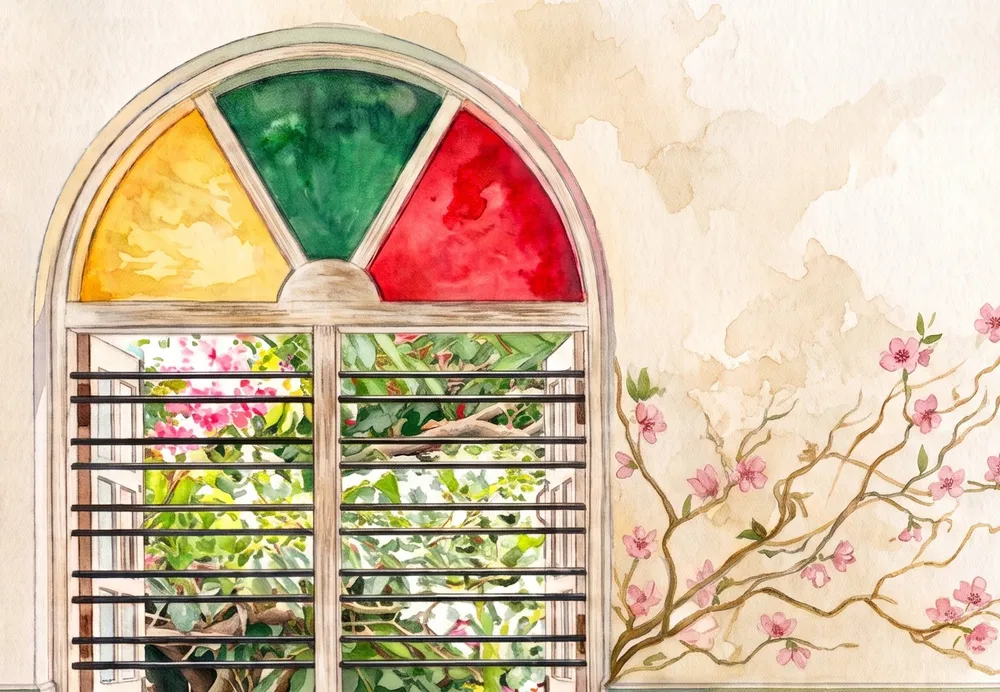
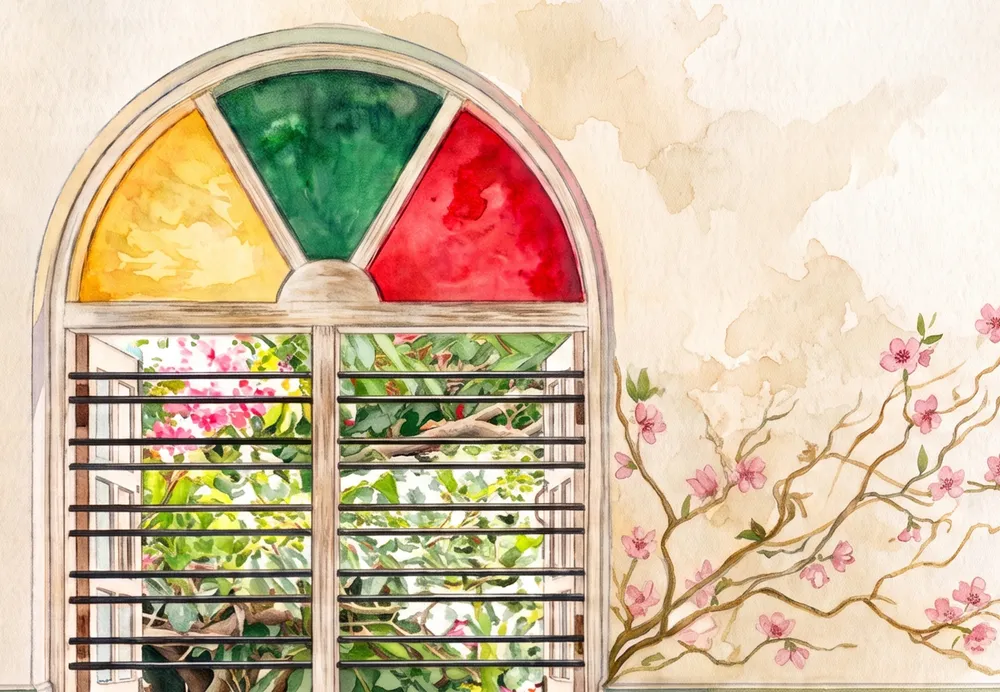
Login page: bigger framed painting, straightened window, drifting cherry blossom petals

diff --git a/src/app/login/page.tsx b/src/app/login/page.tsx
@@ -3,7 +3,7 @@
 import { createClient } from '@/utils/supabase/client'
 import { useState, useEffect } from 'react'
 import { Merienda } from 'next/font/google'
-import { motion } from 'motion/react'
+import { motion, useReducedMotion } from 'motion/react'
 import { Loader2 } from 'lucide-react'
 
 // The watercolour wall: arched stained-glass window, blossom branch, tiled skirting (public/login-bg.webp,
@@ -60,6 +60,64 @@ function SignInCard({ wide, loading, error, onSignIn }: { wide: boolean; loading
   )
 }
 
+// Cherry blossom petals drifting off the branch. Start points are in % of the box they float in, the drift in
+// petal sizes (dx, dy); the same
+// "random" values on the server and in the browser (seeded), so the page never flickers while loading.
+type Petal = { x: number; y: number; dx: number; dy: number; size: number; spin: number; dur: number; delay: number; tint: string }
+
+function makePetals(n: number, seed: number, area: { x: [number, number]; y: [number, number] }, drift: { dx: [number, number]; dy: [number, number] }): Petal[] {
+  let s = seed
+  const r = () => ((s = (s * 9301 + 49297) % 233280) / 233280)
+  const span = (a: [number, number]) => a[0] + r() * (a[1] - a[0])
+  return Array.from({ length: n }, () => ({
+    x: span(area.x), y: span(area.y), dx: span(drift.dx), dy: span(drift.dy),
+    size: 1 + r() * 0.8, spin: (r() > 0.5 ? 1 : -1) * (200 + r() * 340),
+    dur: 7 + r() * 6, delay: r() * 4, tint: ['#F6C1CC', '#F2AFBF', '#F9D3DA', '#EE9FB2'][Math.floor(r() * 4)],
+  }))
+}
+
+// Desktop: the branch is between 33% and 65% across the painting, petals blow to the right and down.
+const DESKTOP_PETALS = makePetals(16, 7, { x: [34, 58], y: [36, 66] }, { dx: [8, 30], dy: [8, 24] })
+// Phone: the branch is on the right of the window picture.
+const PHONE_PETALS = makePetals(9, 11, { x: [62, 92], y: [40, 78] }, { dx: [-30, -6], dy: [10, 30] })
+
+function Petals({ petals, unit }: { petals: Petal[]; unit: 'cqw' | 'px' }) {
+  const reduce = useReducedMotion()
+  if (reduce) return null
+  return (
+    <div aria-hidden="true" className="absolute inset-0 overflow-hidden pointer-events-none">
+      {petals.map((p, i) => {
+        const size = unit === 'cqw' ? `${p.size}cqw` : `${Math.round(p.size * 12)}px`
+        return (
+          <motion.svg
+            key={i}
+            viewBox="0 0 20 24"
+            className="absolute"
+            style={{ left: `${p.x}%`, top: `${p.y}%`, width: size, height: size }}
+            initial={{ opacity: 0 }}
+            animate={{
+              x: ['0%', `${p.dx * 25}%`, `${p.dx * 60}%`],
+              y: ['0%', `${p.dy * 30}%`, `${p.dy * 60}%`],
+              rotate: [0, p.spin / 2, p.spin],
+              opacity: [0, 1, 1, 0],
+            }}
+            transition={{
+              default: { duration: p.dur, delay: p.delay, repeat: Infinity, ease: 'easeInOut' },
+              // fade in quickly, stay, fade out before the next round
+              opacity: { duration: p.dur, delay: p.delay, repeat: Infinity, times: [0, 0.12, 0.8, 1], ease: 'linear' },
+            }}
+          >
+            {/* a cherry blossom petal: an oval, narrow at the base, with the little notch at its tip */}
+            <path d="M10 23C5 19 2 13 3 8 4 4 7 1.5 8.5 3L10 5l1.5-2C13 1.5 16 4 17 8c1 5-2 11-7 15z" fill={p.tint} />
+            <path d="M10 22c-.6-4-.6-9 0-15" stroke="#D97F96" strokeOpacity="0.35" strokeWidth="0.9" fill="none" strokeLinecap="round" />
+            <path d="M6 9c1.5-2 3-2.5 3.5-2" stroke="#fff" strokeOpacity="0.5" strokeWidth="1.1" fill="none" strokeLinecap="round" />
+          </motion.svg>
+        )
+      })}
+    </div>
+  )
+}
+
 export default function LoginPage() {
   const [loading, setLoading] = useState(false)
   const [error, setError] = useState<string | null>(null)
@@ -91,8 +149,8 @@ export default function LoginPage() {
   return (
     <main className="min-h-dvh overflow-hidden bg-[#EFE5D6] bg-[radial-gradient(ellipse_at_30%_20%,#F7EFE3_0%,#EFE5D6_55%,#E6D9C5_100%)]">
       {/* Desktop (900px and wider): the whole painting, uncropped, framed like a window of its own in the middle of the page */}
-      <div className="hidden min-[900px]:flex min-h-dvh items-center justify-center p-8">
-        <div className="relative w-[min(1440px,94vw,calc((100dvh-4rem)*2.357))] aspect-[3168/1344] [container-type:inline-size] rounded-[1.2cqw] overflow-hidden ring-1 ring-[#D8C7AD] shadow-[0_2px_4px_rgba(90,65,35,0.08),0_24px_60px_-12px_rgba(90,65,35,0.28)]">
+      <div className="hidden min-[900px]:flex min-h-dvh items-center justify-center p-4">
+        <div className="relative w-[min(1720px,97vw,calc((100dvh-2rem)*2.357))] aspect-[3168/1344] [container-type:inline-size] rounded-[1.2cqw] overflow-hidden ring-1 ring-[#D8C7AD] shadow-[0_2px_4px_rgba(90,65,35,0.08),0_24px_60px_-12px_rgba(90,65,35,0.28)]">
           {/* eslint-disable-next-line @next/next/no-img-element */}
           <img
             src="/login-bg.webp"
@@ -100,6 +158,7 @@ export default function LoginPage() {
             className="absolute inset-0 w-full h-full object-cover select-none pointer-events-none"
             draggable={false}
           />
+          <Petals petals={DESKTOP_PETALS} unit="cqw" />
           <div className="absolute left-[72.4%] top-[22.4%] w-[22.6%] h-[53%]">
             <SignInCard wide {...card} />
           </div>
@@ -108,13 +167,16 @@ export default function LoginPage() {
 
       {/* Phones and tablets: the window on top, the card centred in the space below it, the tiles along the bottom */}
       <div className="flex min-[900px]:hidden min-h-dvh flex-col bg-[#FAF4EE]">
-        {/* eslint-disable-next-line @next/next/no-img-element */}
-        <img
-          src="/login-art.webp"
-          alt=""
-          className="w-full h-[42dvh] min-h-[240px] max-h-[520px] object-cover object-[30%_100%] select-none pointer-events-none [mask-image:linear-gradient(to_bottom,black_80%,transparent)]"
-          draggable={false}
-        />
+        <div className="relative">
+          {/* eslint-disable-next-line @next/next/no-img-element */}
+          <img
+            src="/login-art.webp"
+            alt=""
+            className="w-full h-[42dvh] min-h-[240px] max-h-[520px] object-cover object-[30%_100%] select-none pointer-events-none [mask-image:linear-gradient(to_bottom,black_80%,transparent)]"
+            draggable={false}
+          />
+          <Petals petals={PHONE_PETALS} unit="px" />
+        </div>
         <div className="flex-1 flex items-center justify-center px-4 py-6">
           <SignInCard wide={false} {...card} />
         </div>
